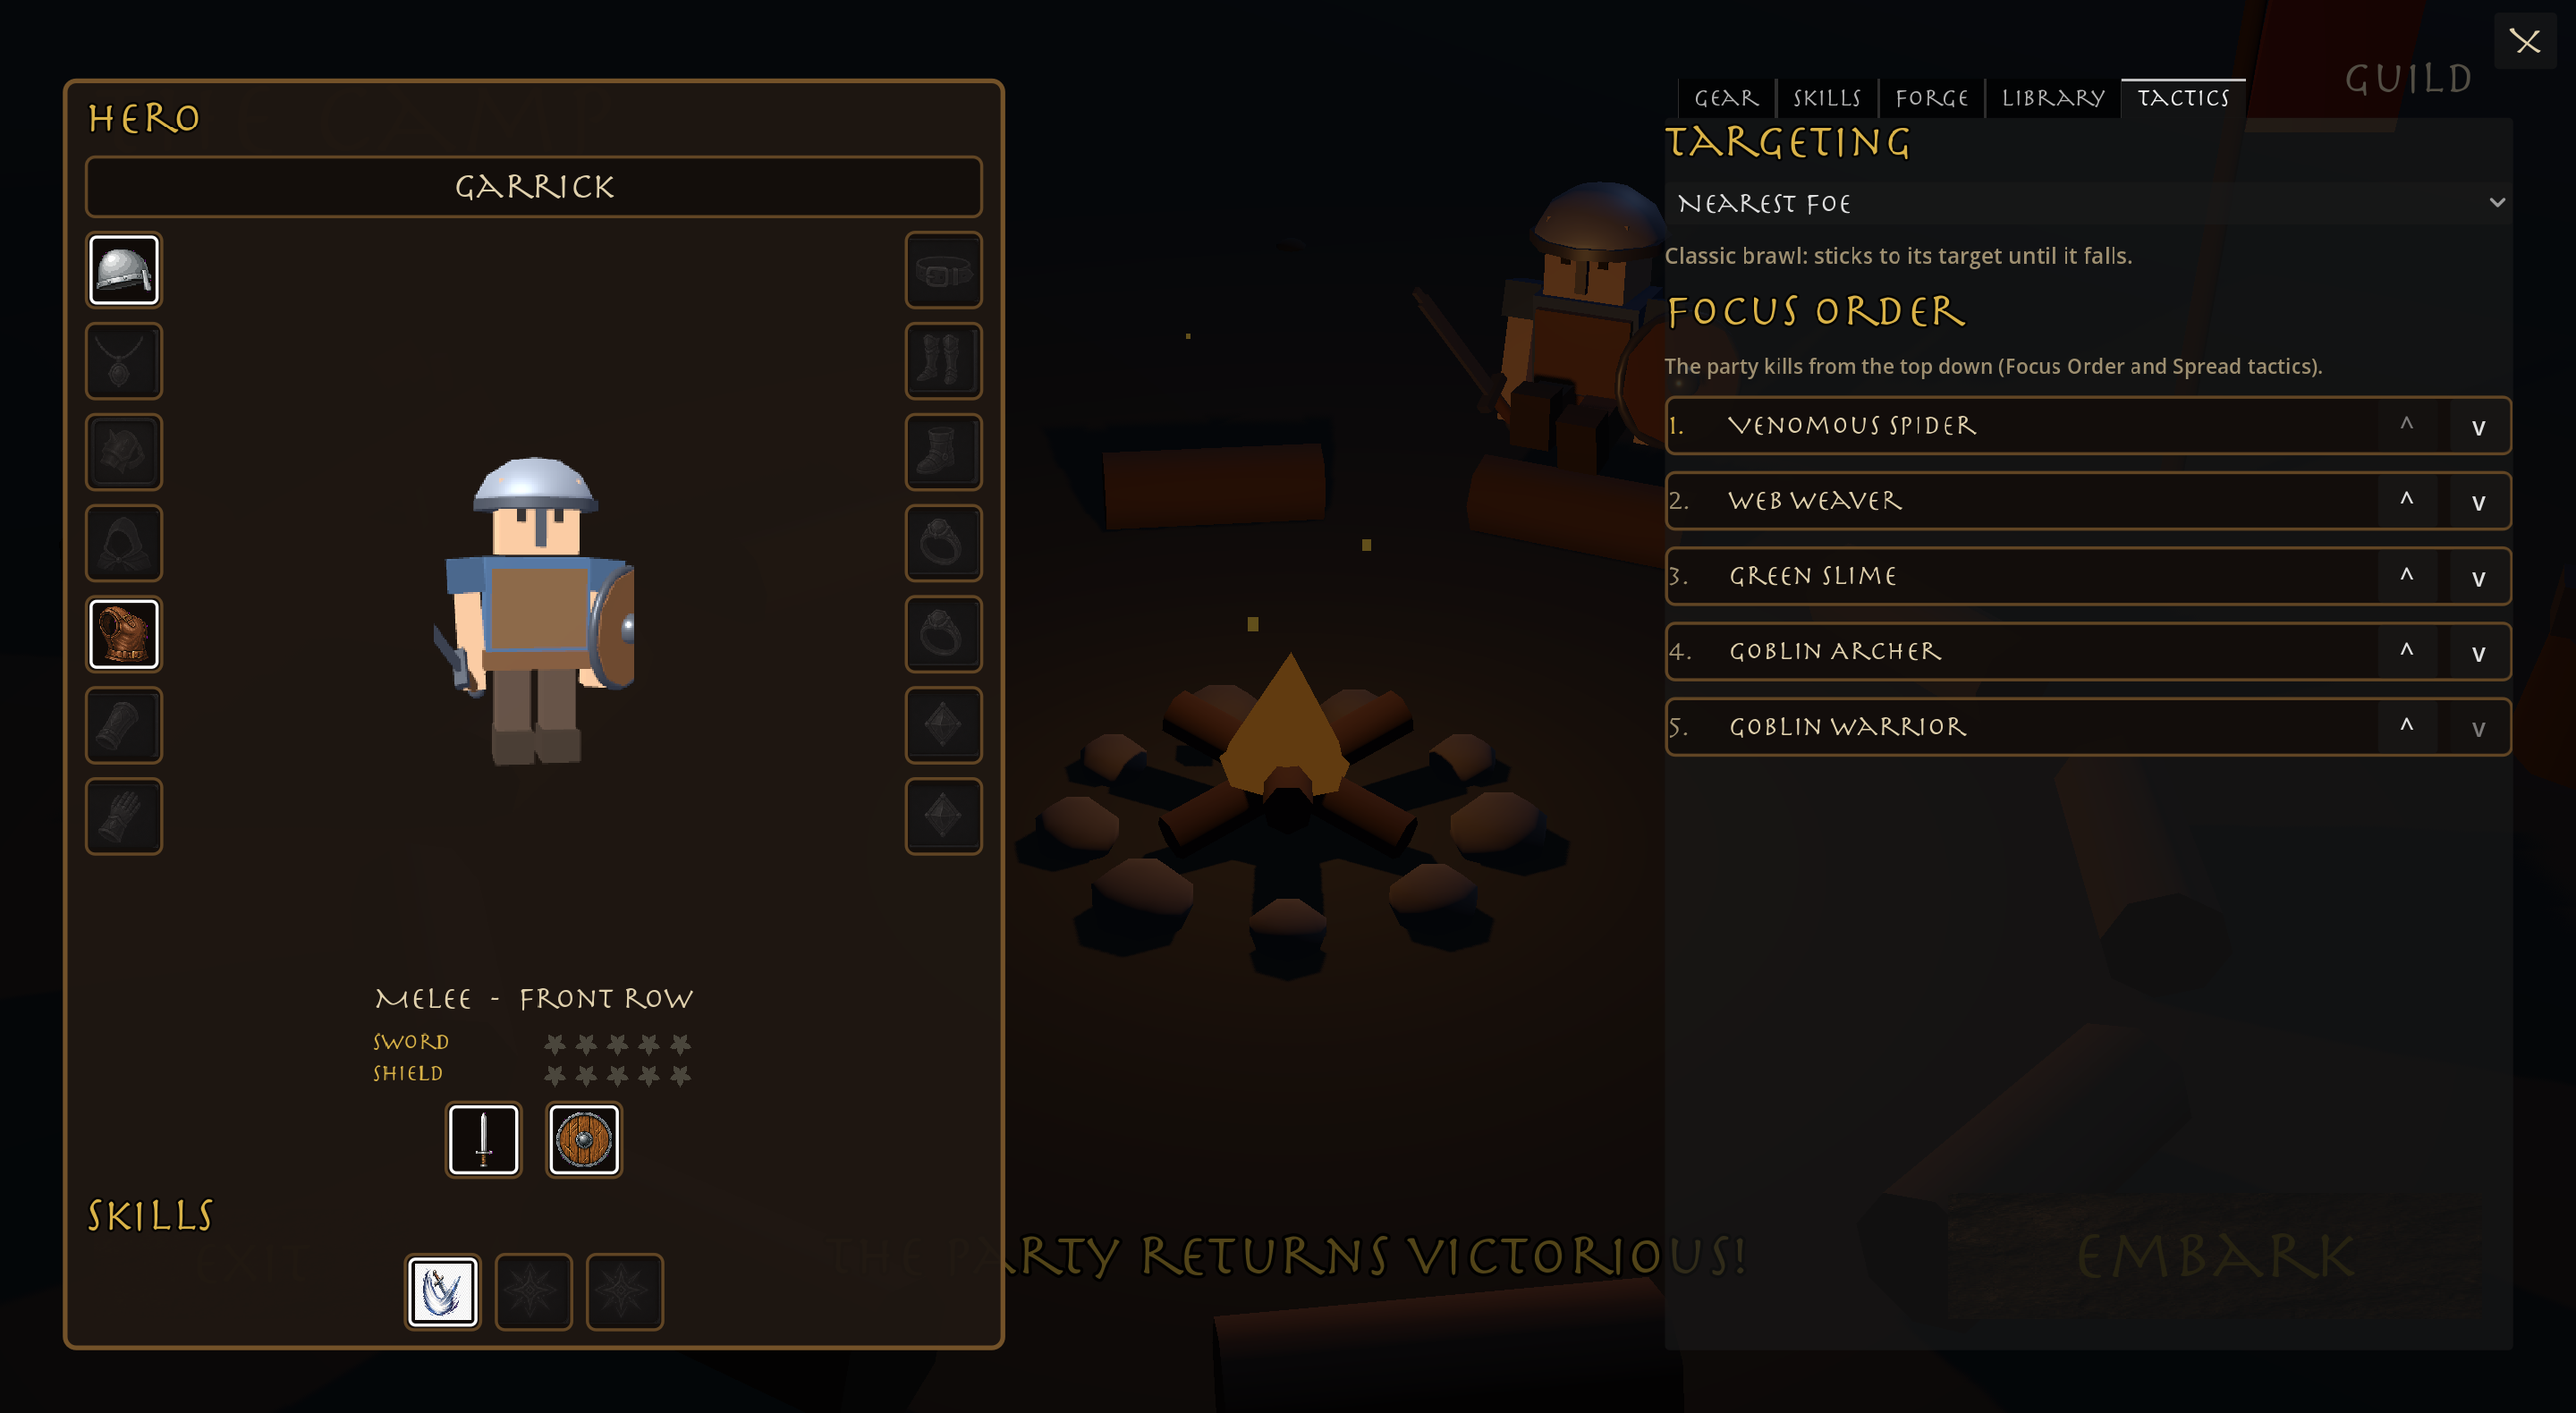
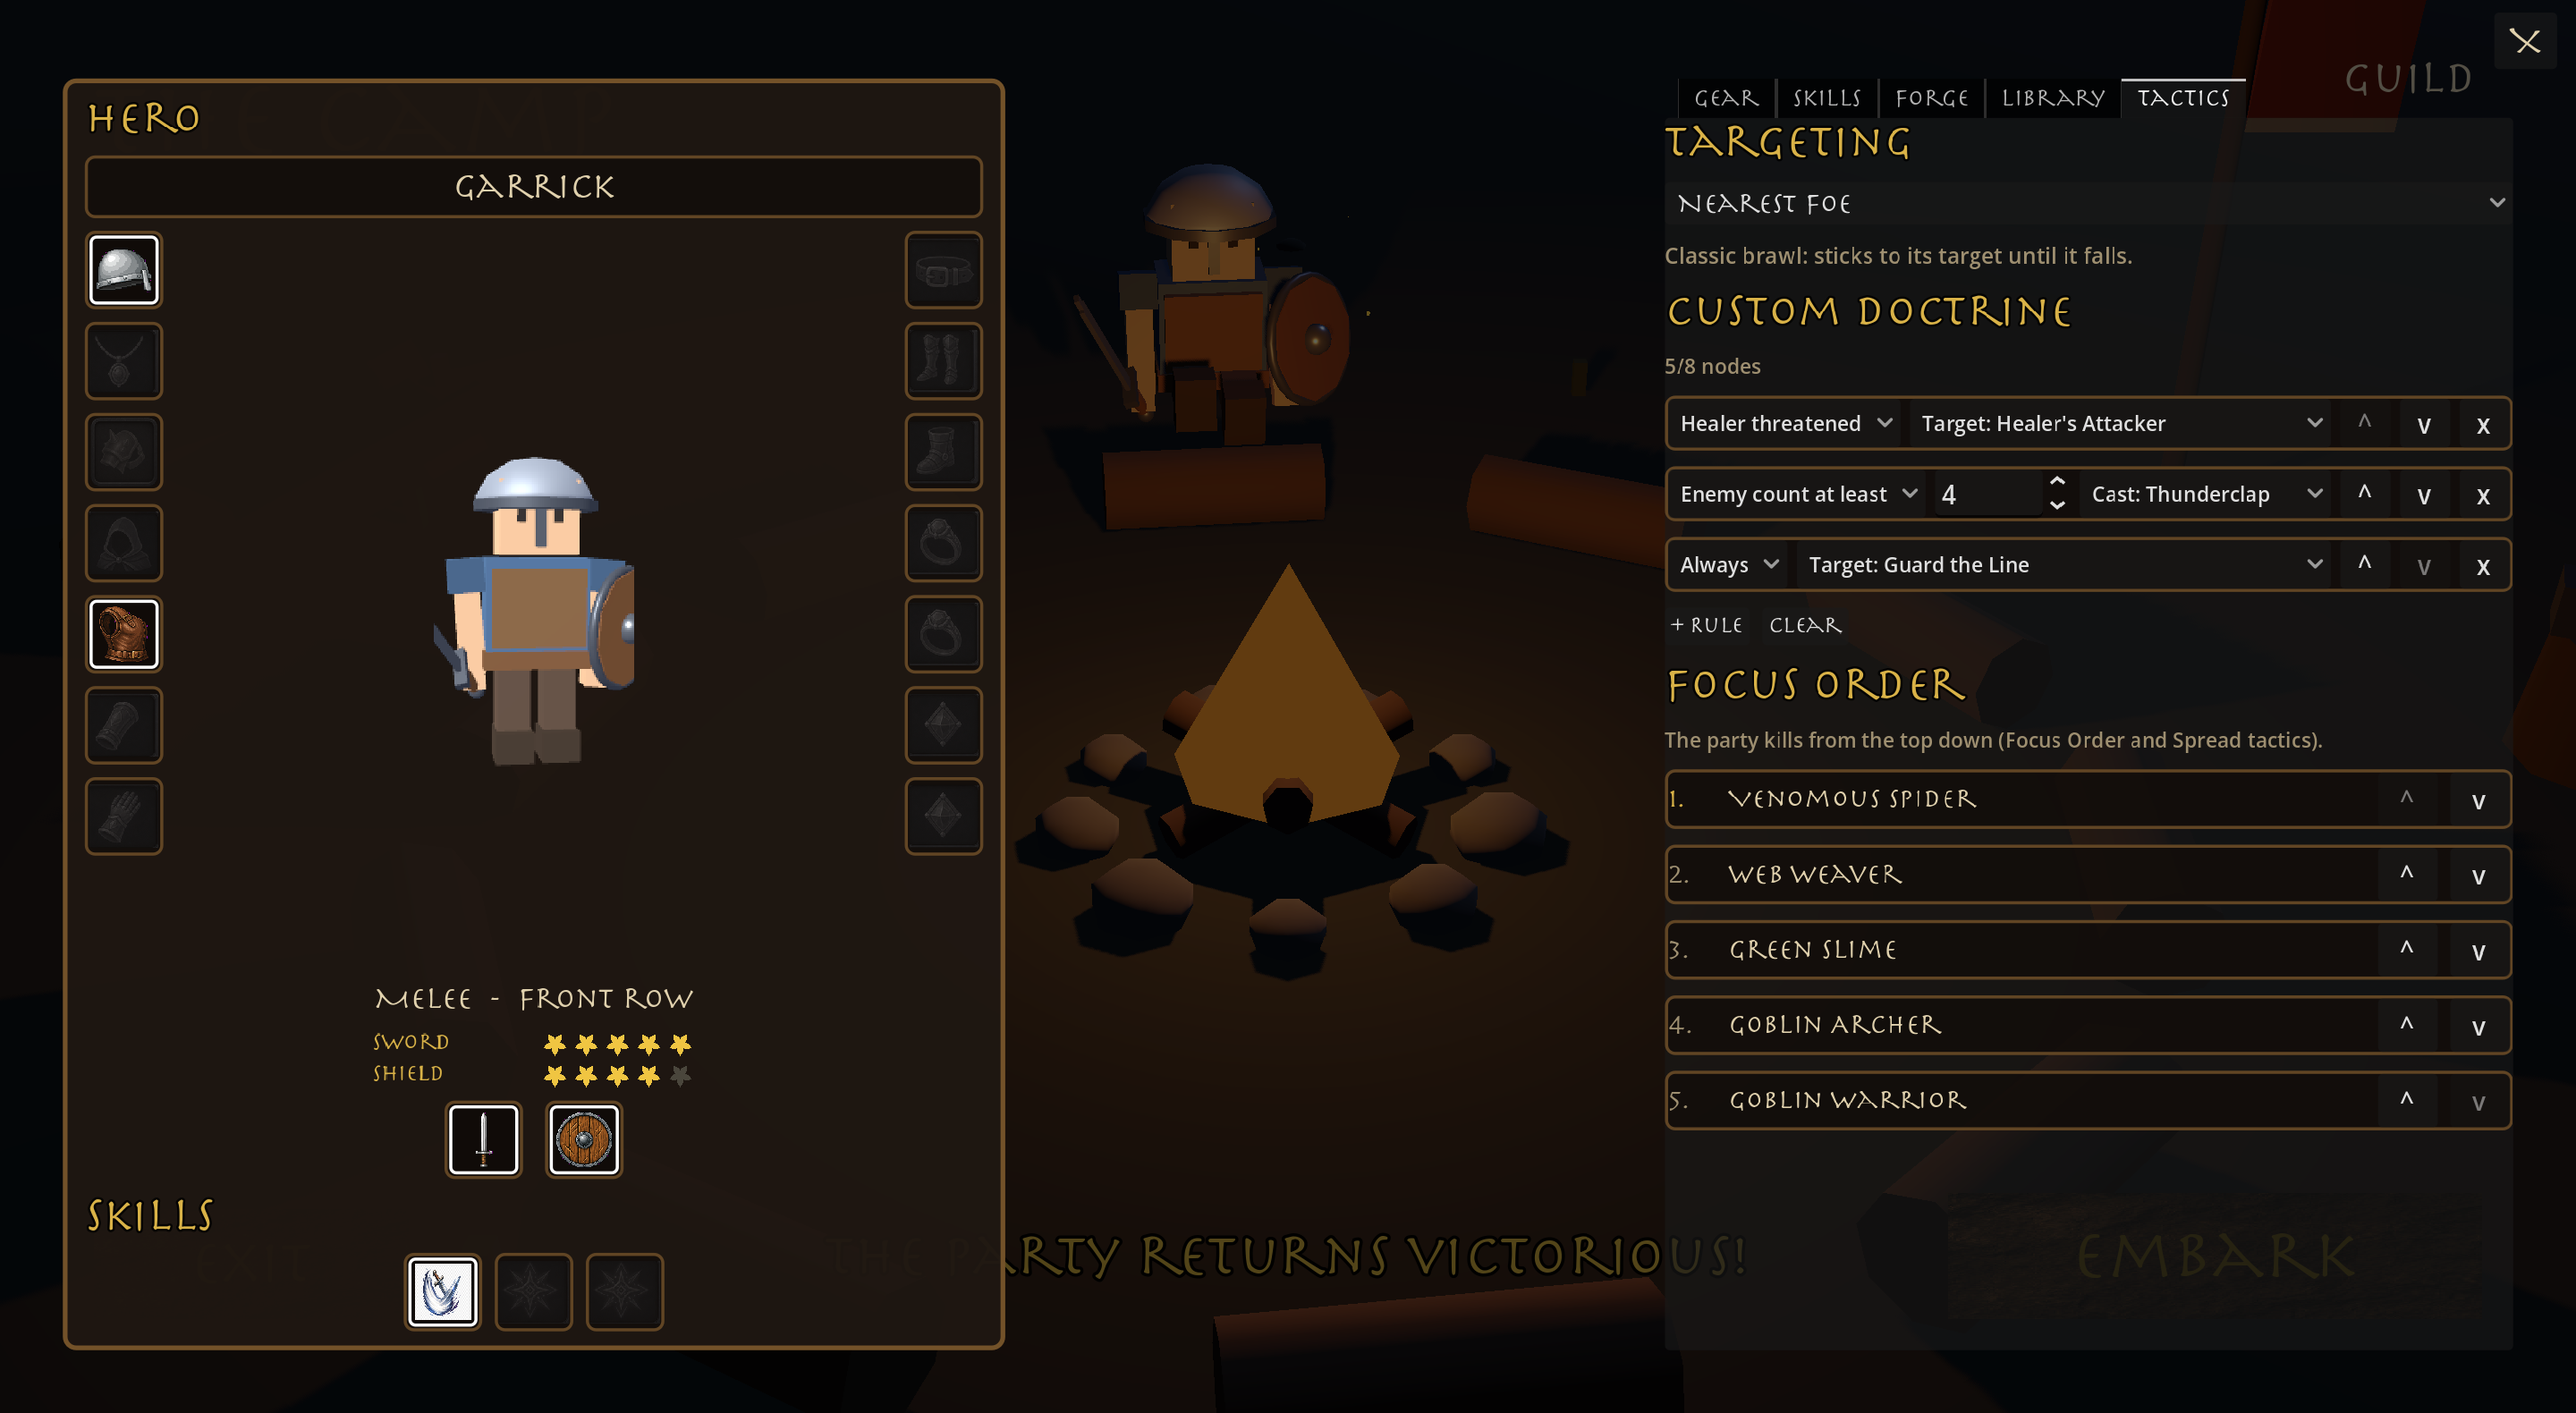
The Doctrine Editor: the guild learns to write its own orders.
Phase 3 of the long tutorial gets its face. Invisible until the first
Battlefield Doctrine tome is recovered, the editor appears in the
Tactics tab as rule rows over the shared behaviour-tree engine:
WHEN a condition (with numeric parameters where they apply) THEN a
target selector or a cast. The vocabulary is itself recovered - the
selectors offered are the tactics the guild knows, the castable
actions are what the hero can actually field (mastery kit plus
slotted techniques) - and a live counter holds every doctrine to the
guild's recovered node capacity. Rules reorder, delete, and persist
instantly; an empty doctrine leaves the chosen tactic in command.

The editor writes exactly the trees the built-in tactics are made
of. Scratch and the Engineer's Python, when they come, are richer
faces over this same page.

diff --git a/CHANGELOG.md b/CHANGELOG.md
@@ -2,6 +2,20 @@
 
 Notable changes per pull request. Newest first.
 
+## PR #11 — The Doctrine Editor *(open)*
+
+### Added
+- **The Doctrine Editor** (Phase 3 of the long tutorial): invisible
+  until the guild recovers its first Battlefield Doctrine tome, then
+  a rule builder in the Tactics tab — WHEN [condition, with numeric
+  parameters] THEN [target selector or cast] — with a live node
+  counter against the guild's recovered capacity, reordering,
+  deletion, and instant persistence. Target selectors are the
+  recovered tactics; castable actions are what the hero can actually
+  field (mastery kit + slotted techniques). The editor writes the
+  same behaviour trees the built-in tactics are made of — Scratch
+  and the Engineer's Python will simply be richer faces over this.
+
 ## PR #10 — Mastery: identity through practice *(open)*
 
 ### Added
